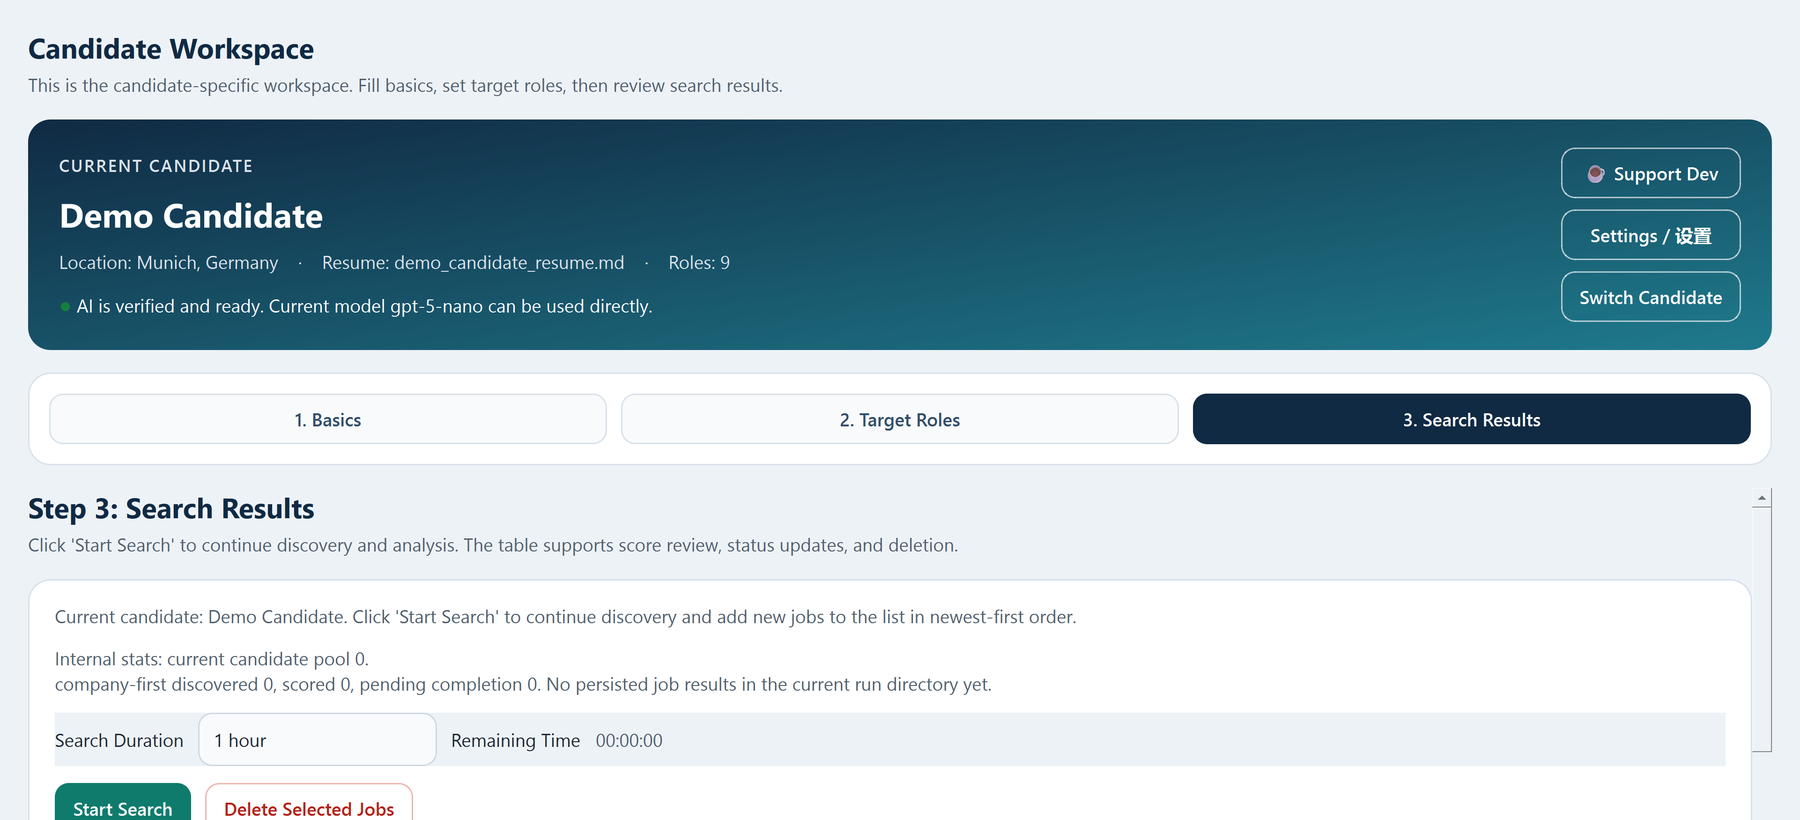
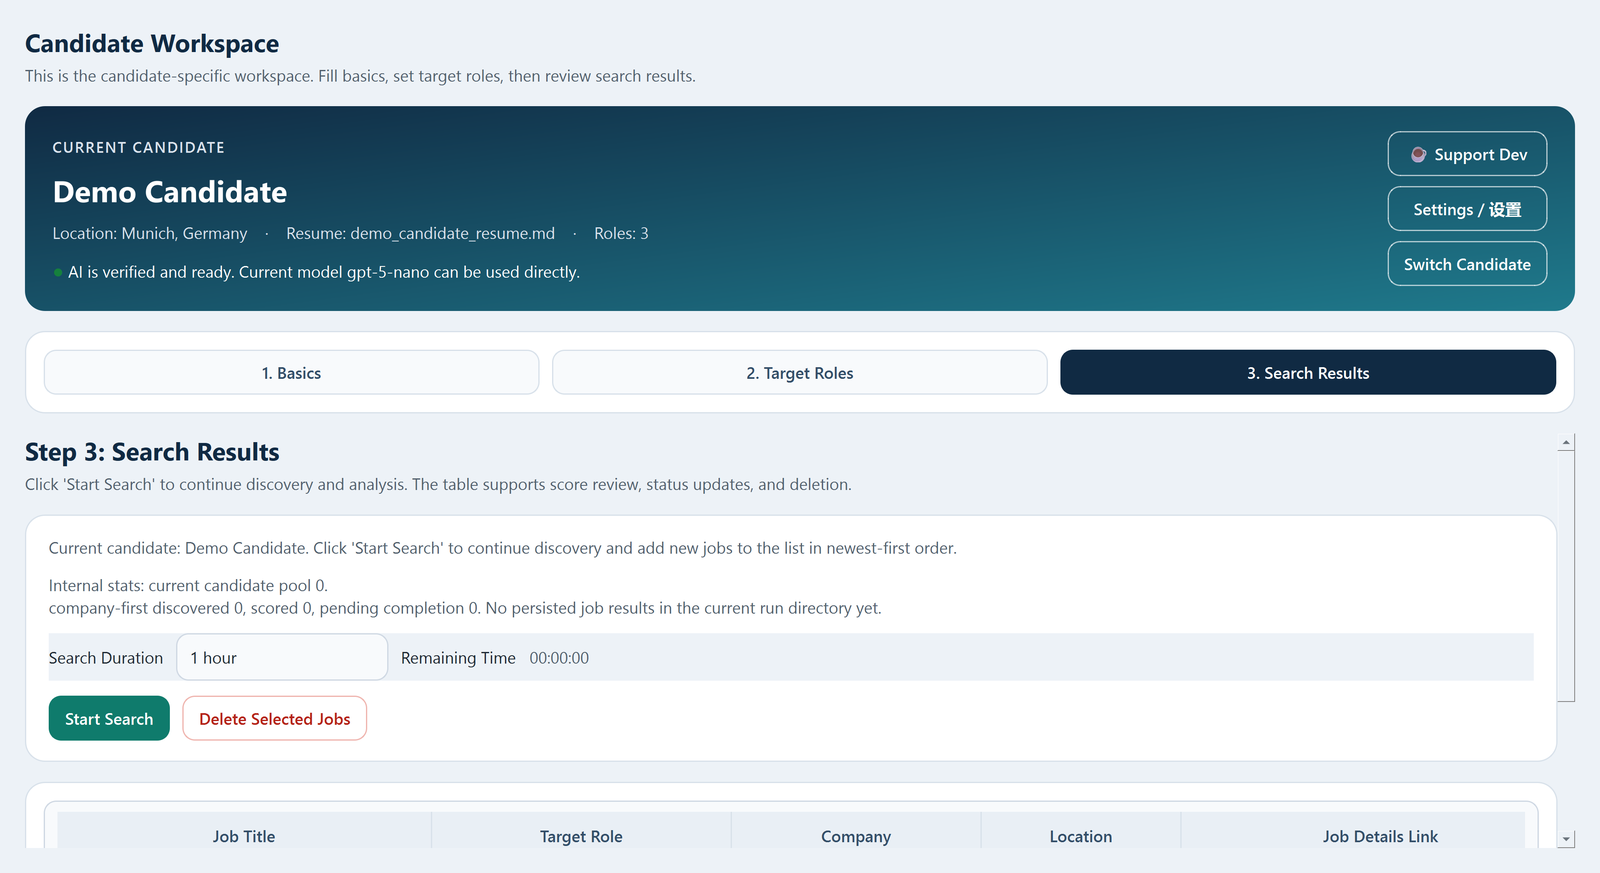
docs: regenerate README screenshots safely

diff --git a/scripts/capture_readme_screenshots.py b/scripts/capture_readme_screenshots.py
@@ -1,0 +1,123 @@
+from __future__ import annotations
+
+import tempfile
+import time
+from pathlib import Path
+
+from PIL import Image
+from PySide6.QtWidgets import QApplication
+
+REPO_ROOT = Path(__file__).resolve().parents[1]
+DESKTOP_ROOT = REPO_ROOT / "desktop_app"
+SRC_ROOT = DESKTOP_ROOT / "src"
+
+import sys
+
+if str(SRC_ROOT) not in sys.path:
+    sys.path.insert(0, str(SRC_ROOT))
+
+from jobflow_desktop_app import bootstrap as bootstrap_module
+from jobflow_desktop_app.app.main_window import MainWindow, _resolve_app_icon
+from jobflow_desktop_app.app.theme import apply_theme
+from jobflow_desktop_app.paths import AppPaths
+
+
+OUTPUT_DIR = REPO_ROOT / "docs" / "images"
+
+
+def _process_events(app: QApplication, loops: int = 20, delay_seconds: float = 0.06) -> None:
+    for _ in range(max(1, int(loops))):
+        app.processEvents()
+        time.sleep(max(0.0, float(delay_seconds)))
+
+
+def _resize_image(path: Path, target_width: int = 1600) -> None:
+    image = Image.open(path)
+    if image.width <= target_width:
+        image.save(path, optimize=True)
+        return
+    target_height = round(image.height * target_width / image.width)
+    resized = image.resize((target_width, target_height), Image.Resampling.LANCZOS)
+    resized.save(path, optimize=True)
+
+
+def _temp_paths(runtime_root: Path) -> AppPaths:
+    data_dir = runtime_root / "data"
+    logs_dir = runtime_root / "logs"
+    exports_dir = runtime_root / "exports"
+    return AppPaths(
+        project_root=DESKTOP_ROOT,
+        runtime_dir=runtime_root,
+        data_dir=data_dir,
+        exports_dir=exports_dir,
+        logs_dir=logs_dir,
+        db_path=data_dir / "jobflow_desktop.db",
+        schema_path=DESKTOP_ROOT / "src" / "jobflow_desktop_app" / "db" / "schema.sql",
+    )
+
+
+def _build_window(app: QApplication, runtime_root: Path, *, width: int, height: int) -> MainWindow:
+    original_build_app_paths = bootstrap_module.build_app_paths
+    try:
+        bootstrap_module.build_app_paths = lambda: _temp_paths(runtime_root)
+        context = bootstrap_module.bootstrap_application()
+    finally:
+        bootstrap_module.build_app_paths = original_build_app_paths
+
+    context.settings.save_ui_language("en")
+    icon = _resolve_app_icon(context)
+    if icon is not None:
+        app.setWindowIcon(icon)
+    apply_theme(app)
+    window = MainWindow(context)
+    if icon is not None:
+        window.setWindowIcon(icon)
+    window.statusBar().hide()
+    window.resize(width, height)
+    window.show()
+    window.raise_()
+    window.activateWindow()
+    _process_events(app, loops=24)
+    return window
+
+
+def _capture_candidate_entry(app: QApplication) -> None:
+    output_path = OUTPUT_DIR / "readme-screenshot-directory.png"
+    with tempfile.TemporaryDirectory(prefix="job-hunter-readme-") as runtime_root_raw:
+        window = _build_window(app, Path(runtime_root_raw), width=1440, height=980)
+        try:
+            window.grab().save(str(output_path))
+            _resize_image(output_path, target_width=1600)
+        finally:
+            window.close()
+            _process_events(app, loops=4, delay_seconds=0.03)
+
+
+def _capture_search_workspace(app: QApplication) -> None:
+    output_path = OUTPUT_DIR / "readme-screenshot-search-results.png"
+    with tempfile.TemporaryDirectory(prefix="job-hunter-readme-") as runtime_root_raw:
+        window = _build_window(app, Path(runtime_root_raw), width=1440, height=1260)
+        try:
+            window._open_workspace(window.current_candidate_id)
+            _process_events(app, loops=16)
+            window.workspace_page._set_step(2)
+            window._set_ai_status("ready", model_name="gpt-5-nano")
+            _process_events(app, loops=12)
+            window.grab().save(str(output_path))
+            _resize_image(output_path, target_width=1600)
+        finally:
+            window.workspace_page.shutdown_background_work(wait_ms=1000)
+            window.close()
+            _process_events(app, loops=4, delay_seconds=0.03)
+
+
+def main() -> int:
+    OUTPUT_DIR.mkdir(parents=True, exist_ok=True)
+    app = QApplication.instance() or QApplication([])
+    _capture_candidate_entry(app)
+    _capture_search_workspace(app)
+    return 0
+
+
+if __name__ == "__main__":
+    raise SystemExit(main())
